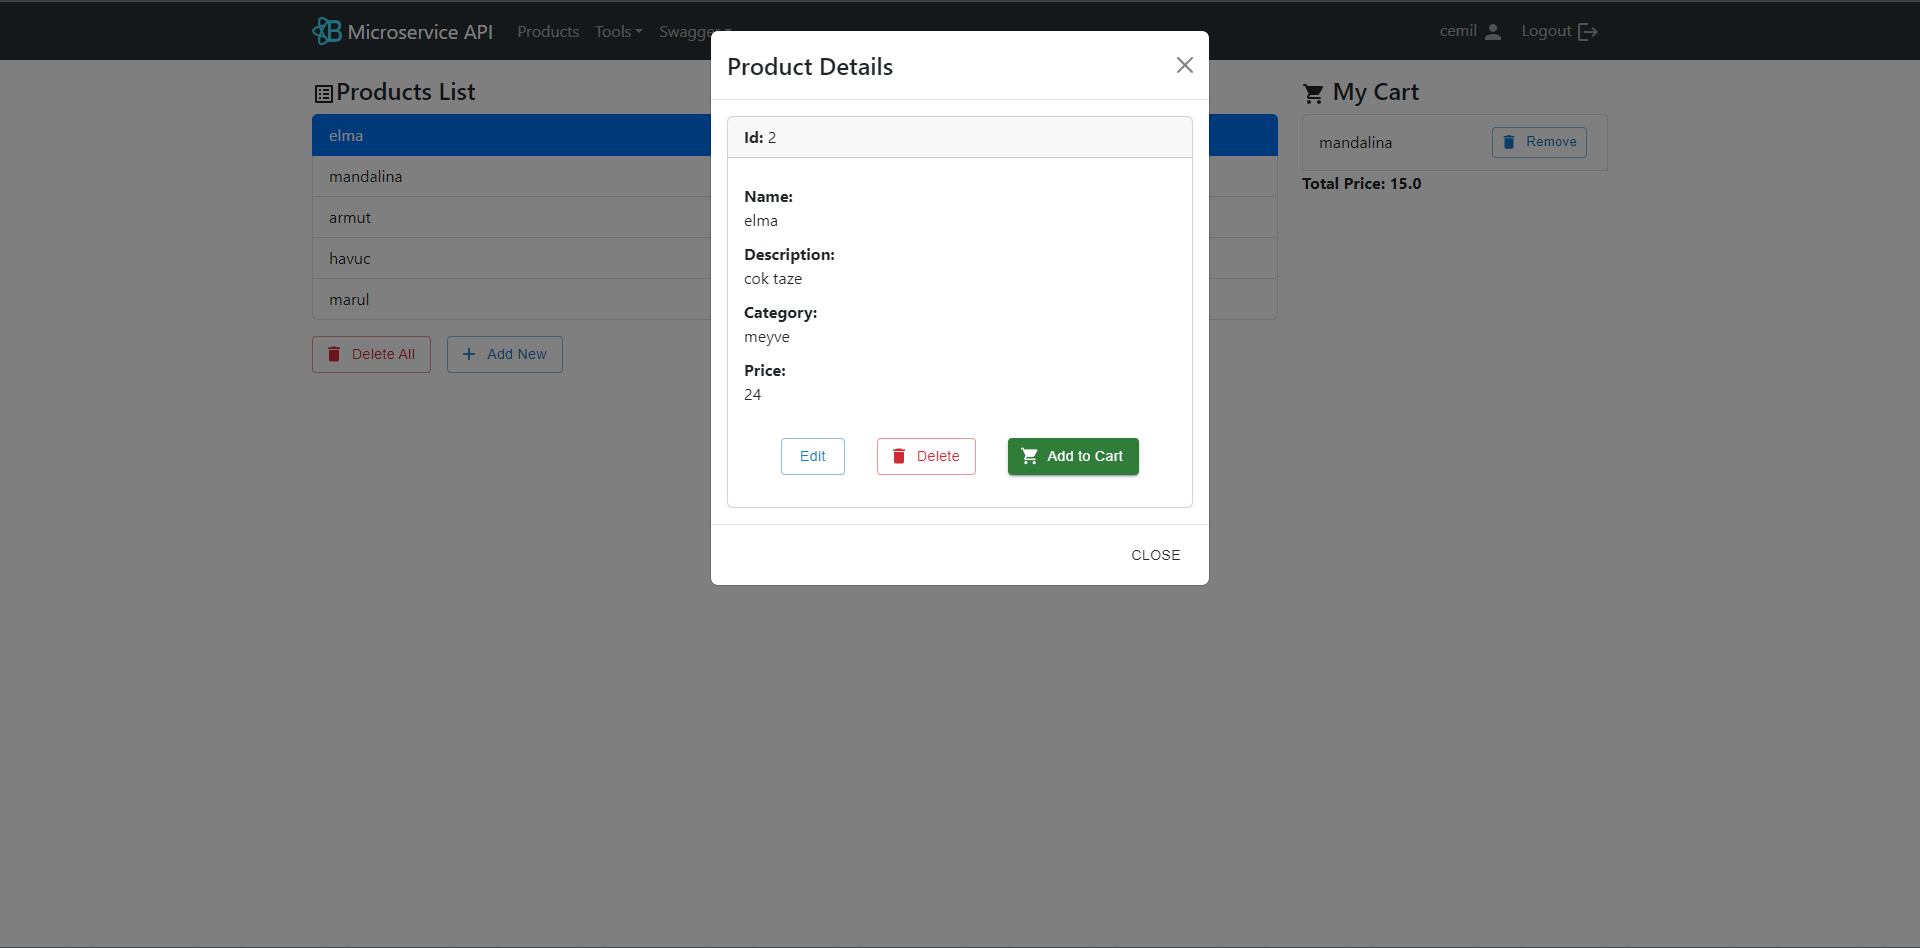
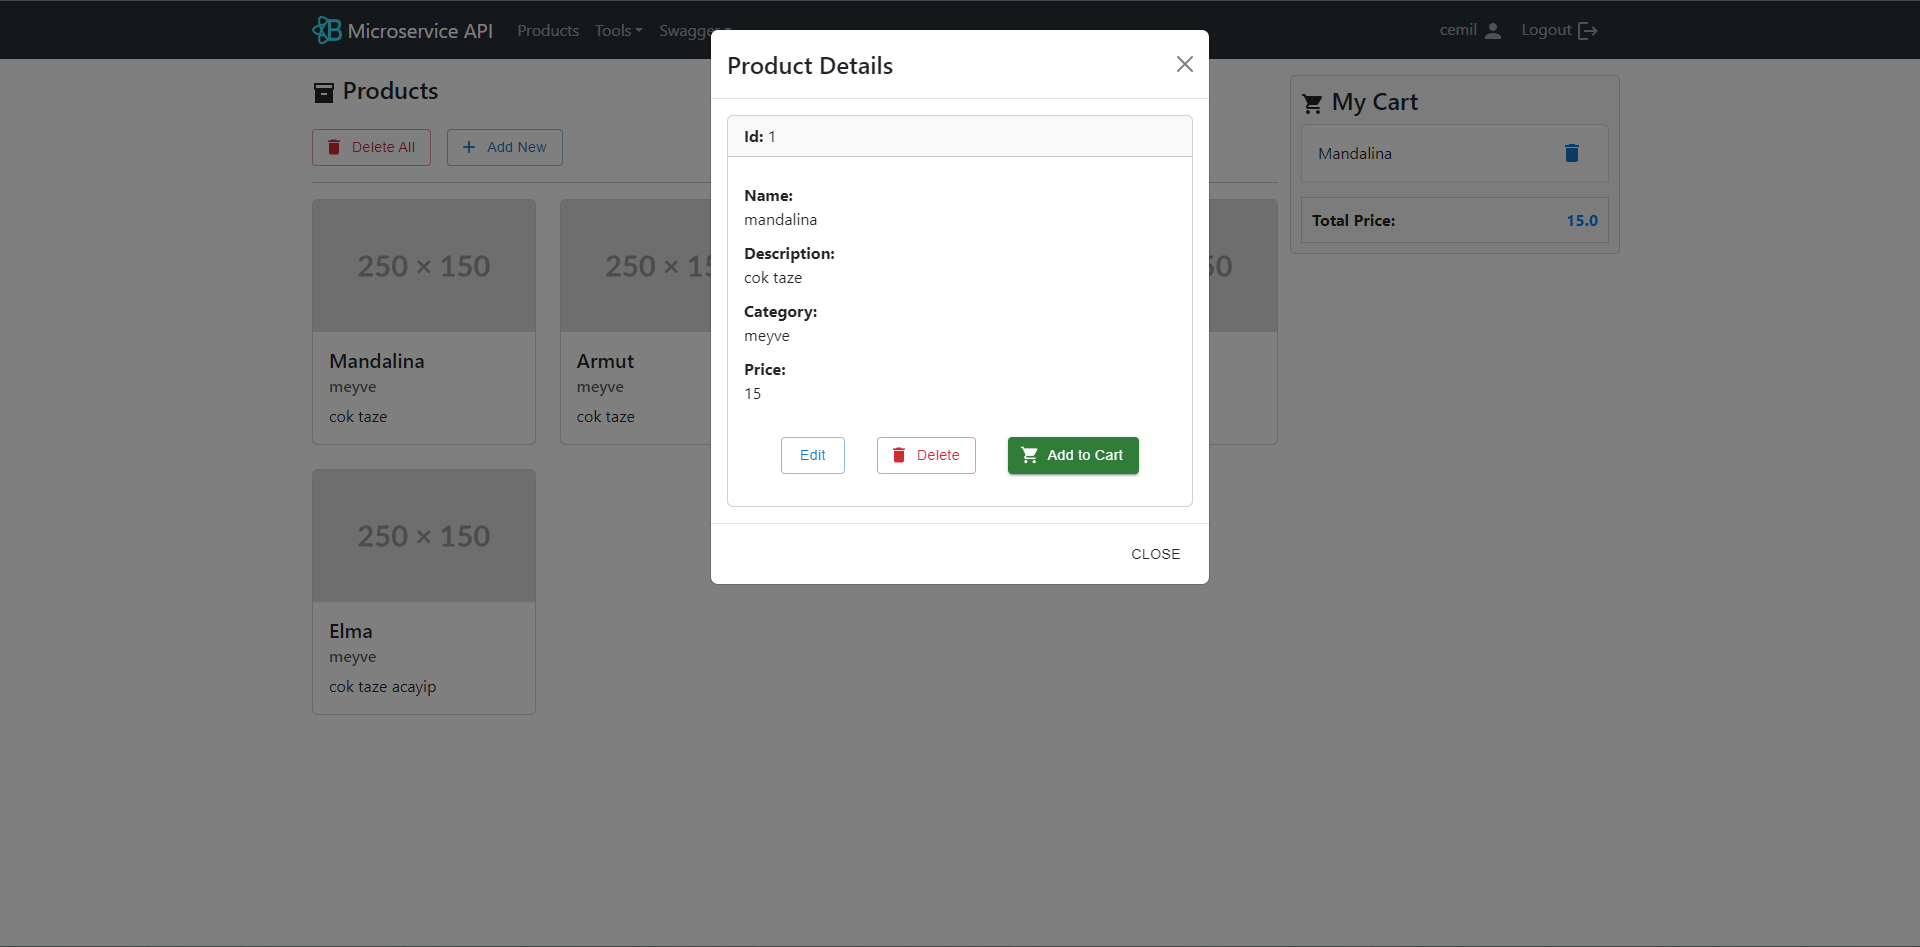
Product list page ui changes

diff --git a/src/components/ProductsListComponent.js b/src/components/ProductsListComponent.js
@@ -8,7 +8,8 @@ import { Card, ListGroup, Modal } from "react-bootstrap";
 import cartService from "../services/CartService";
 import DeleteIcon from '@mui/icons-material/Delete';
 import Button from '@mui/material/Button';
-import { Add, ListAltOutlined, ShoppingCartRounded } from "@mui/icons-material";
+import IconButton from '@mui/material/IconButton';
+import { Add, Inventory2Sharp, ShoppingCartRounded } from "@mui/icons-material";
 import { toast } from 'react-toastify';
 import 'react-toastify/dist/ReactToastify.css';
 
@@ -18,7 +19,6 @@ const ProductsList = () => {
     const [currentProduct, setCurrentProduct] = useState(null);
     const [totalPrice, setTotalPrice] = useState("");
     const [cartId, setCartId] = useState(null);
-    const [currentIndex, setCurrentIndex] = useState(-1);
     const [showModal, setShowModal] = useState(false);
 
     const handleCloseModal = () => setShowModal(false);
@@ -37,10 +37,6 @@ const ProductsList = () => {
             getTotalPrice(response.data.id);
         } catch (e) {
             console.log(e);
-        }
-
-        if (isCartExist) {
-
         }
 
         if (!isCartExist) {
@@ -79,16 +75,20 @@ const ProductsList = () => {
         retrieveCart();
         retrieveProducts();
         setCurrentProduct(null);
-        setCurrentIndex(-1);
     };
 
     const setActiveProduct = (product, index) => {
         setCurrentProduct(product);
-        setCurrentIndex(index);
         handleShowModal();
     };
 
     const deleteAllProducts = () => {
+        const isConfirmed = window.confirm("Are you sure you want to delete all products?");
+
+        if (!isConfirmed) {
+            return;
+        }
+
         productService.deleteAll()
             .then((response) => {
                 console.log(response.data);
@@ -202,43 +202,48 @@ const ProductsList = () => {
             </Modal>
 
             <div className="col-md-9">
-                <h4><ListAltOutlined />Products List</h4>
-                <ListGroup>
-                    {products &&
-                        products.map((product, index) => (
-                            <ListGroup.Item
-                                active={index === currentIndex}
-                                onClick={() => setActiveProduct(product, index)}
-                                key={index}
-                            >
-                                {product.name}
-                            </ListGroup.Item>
-                        ))}
-                </ListGroup>
+                <h4><Inventory2Sharp /> Products </h4>
                 <div className="col-md-12 d-flex align-items-center justify-content-start">
                     <Button startIcon={<DeleteIcon />} className="" variant="outlined" color="error" onClick={deleteAllProducts} style={{ textTransform: "none" }}>Delete All</Button>
-                    <Link to={"/products/add"}>
-                        <Button startIcon={<Add />} className="m-3" variant="outlined" color="primary" style={{ textTransform: "none" }}>Add New</Button>
-                    </Link>
+                    <Link to={"/products/add"}><Button startIcon={<Add />} className="m-3" variant="outlined" color="primary" style={{ textTransform: "none" }}>Add New</Button></Link>
+                </div>
+                <hr className="styled-hr" />
+                <div className="row row-cols-1 row-cols-md-4 g-4">
+                    {products &&
+                        products.map((product, index) => (
+                            <div key={index} className="col">
+                                <Card className="product-card" onClick={() => setActiveProduct(product, index)}>
+                                    <Card.Img variant="top" src="https://placehold.co/250x150" />
+                                    <Card.Body >
+                                        <Card.Title style={{ textTransform: 'capitalize' }}>{product.name}</Card.Title>
+                                        <Card.Subtitle className="mb-2 text-muted">{product.category}</Card.Subtitle>
+                                        <Card.Text>
+                                            {product.description}
+                                        </Card.Text>
+                                    </Card.Body>
+                                </Card>
+                            </div>
+                        ))}
                 </div>
             </div>
 
-
-            <div className="col-md-3">
-                <h4><ShoppingCartRounded /> My Cart </h4>
+            <div className="col-md-3 cart-container">
+                <h4 className="cart-title"><ShoppingCartRounded /> My Cart </h4>
                 <ListGroup>
                     {cartProducts &&
                         cartProducts.map((cartProduct, index) => (
                             <ListGroup.Item
-                                //active={index === currentIndex}
                                 // onClick={() => setActiveProduct(cartProduct, index)}
                                 key={index}
                                 style={{ display: 'flex', justifyContent: 'space-between', alignItems: 'center' }}>
-                                <span>{cartProduct.name}</span>
-                                <Button startIcon={<DeleteIcon />} size="small" className="m-1" variant="outlined" color="primary" onClick={() => removeProductFromCart(cartProduct)} style={{ textTransform: "none" }}>Remove</Button>
+                                <span style={{ textTransform: 'capitalize' }}>{cartProduct.name} </span>
+                                <IconButton aria-label="delete" onClick={() => removeProductFromCart(cartProduct)} ><DeleteIcon size="small" color="primary" /></IconButton>
                             </ListGroup.Item>
                         ))}
-                    <strong>Total Price: {totalPrice}</strong>
+                    <div className="total-price-container">
+                        <strong>Total Price:</strong>
+                        <span className="total-price">{totalPrice}</span>
+                    </div>
                 </ListGroup>
             </div>
 

diff --git a/src/App.css b/src/App.css
@@ -46,3 +46,46 @@ label {
   max-width: 300px;
   margin: auto;
 }
+
+.cart-title {
+  font-size: 1.5rem;
+}
+
+.cart-container {
+  background-color: #f8f9fa;
+  border: 1px solid #ced4da;
+  padding: 10px;
+  border-radius: 5px;
+  height: fit-content;
+}
+
+.cart-item {
+  margin-bottom: 10px;
+  display: flex;
+  justify-content: space-between;
+  align-items: center;
+}
+
+.total-price-container {
+  display: flex;
+  justify-content: space-between;
+  align-items: center;
+  margin-top: 15px;
+  padding: 10px;
+  border: 1px solid #ced4da;
+}
+
+.total-price {
+  font-weight: bold;
+  color: #007bff;
+}
+
+.product-card:hover {
+  border-color: #0080ff;
+  cursor: pointer;
+}
+
+.styled-hr {
+  width: 100%;
+  margin-top: 0px;
+}
